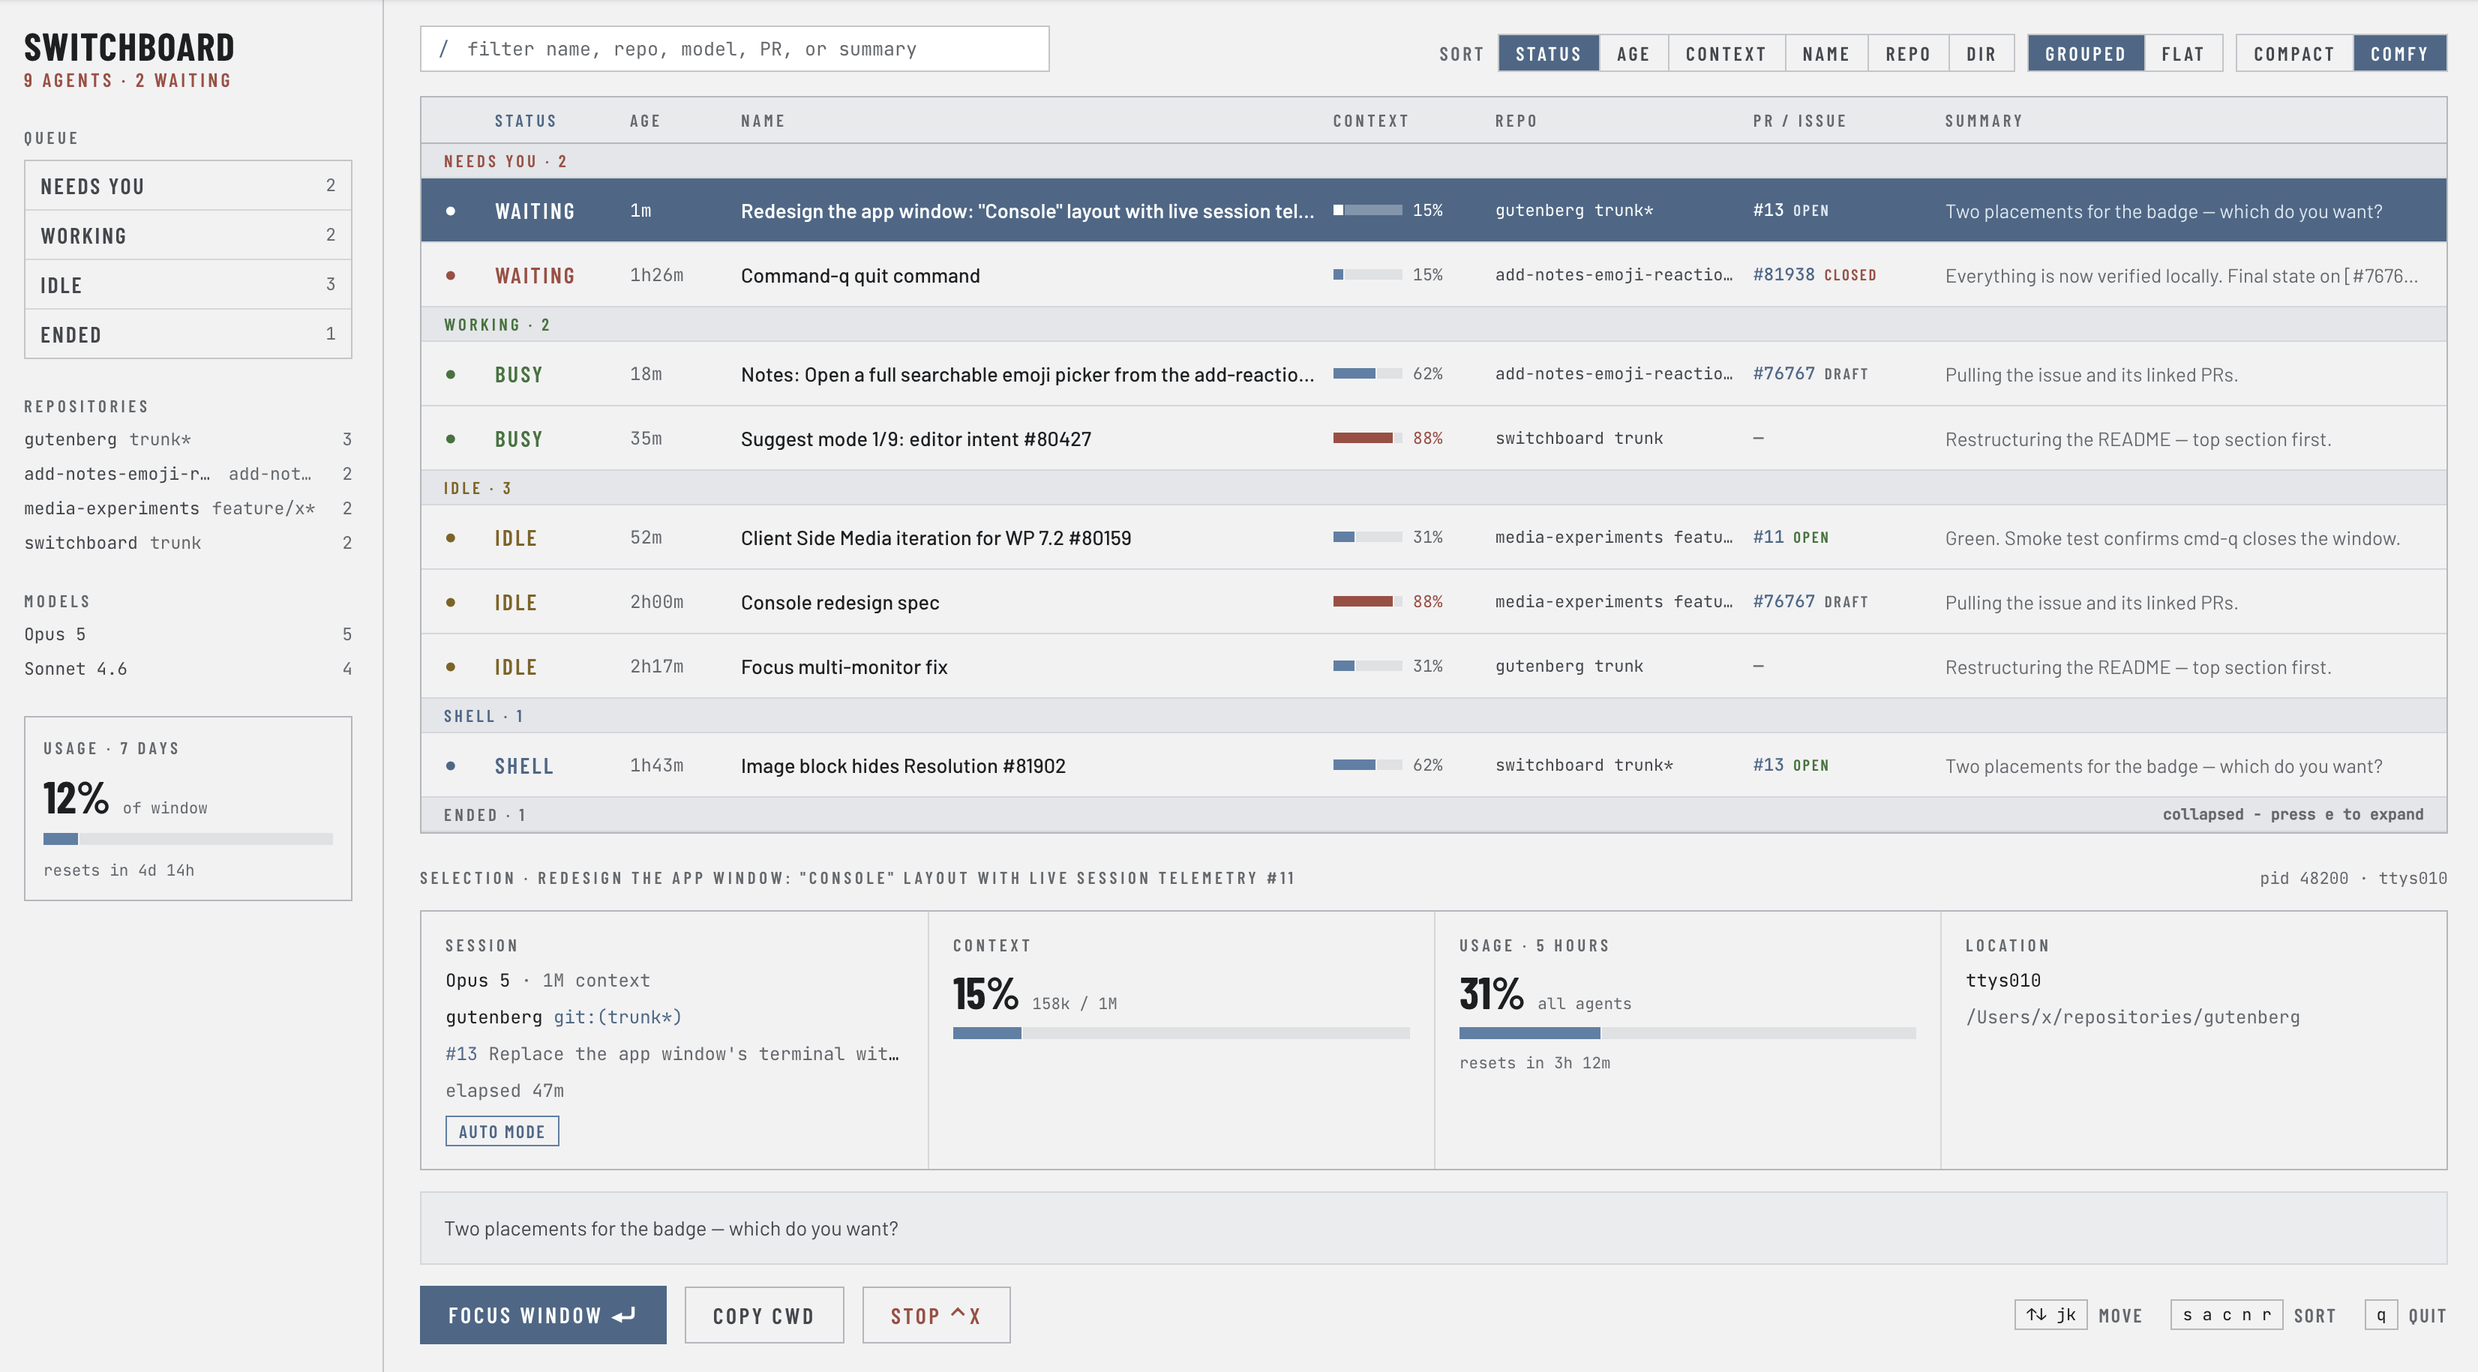
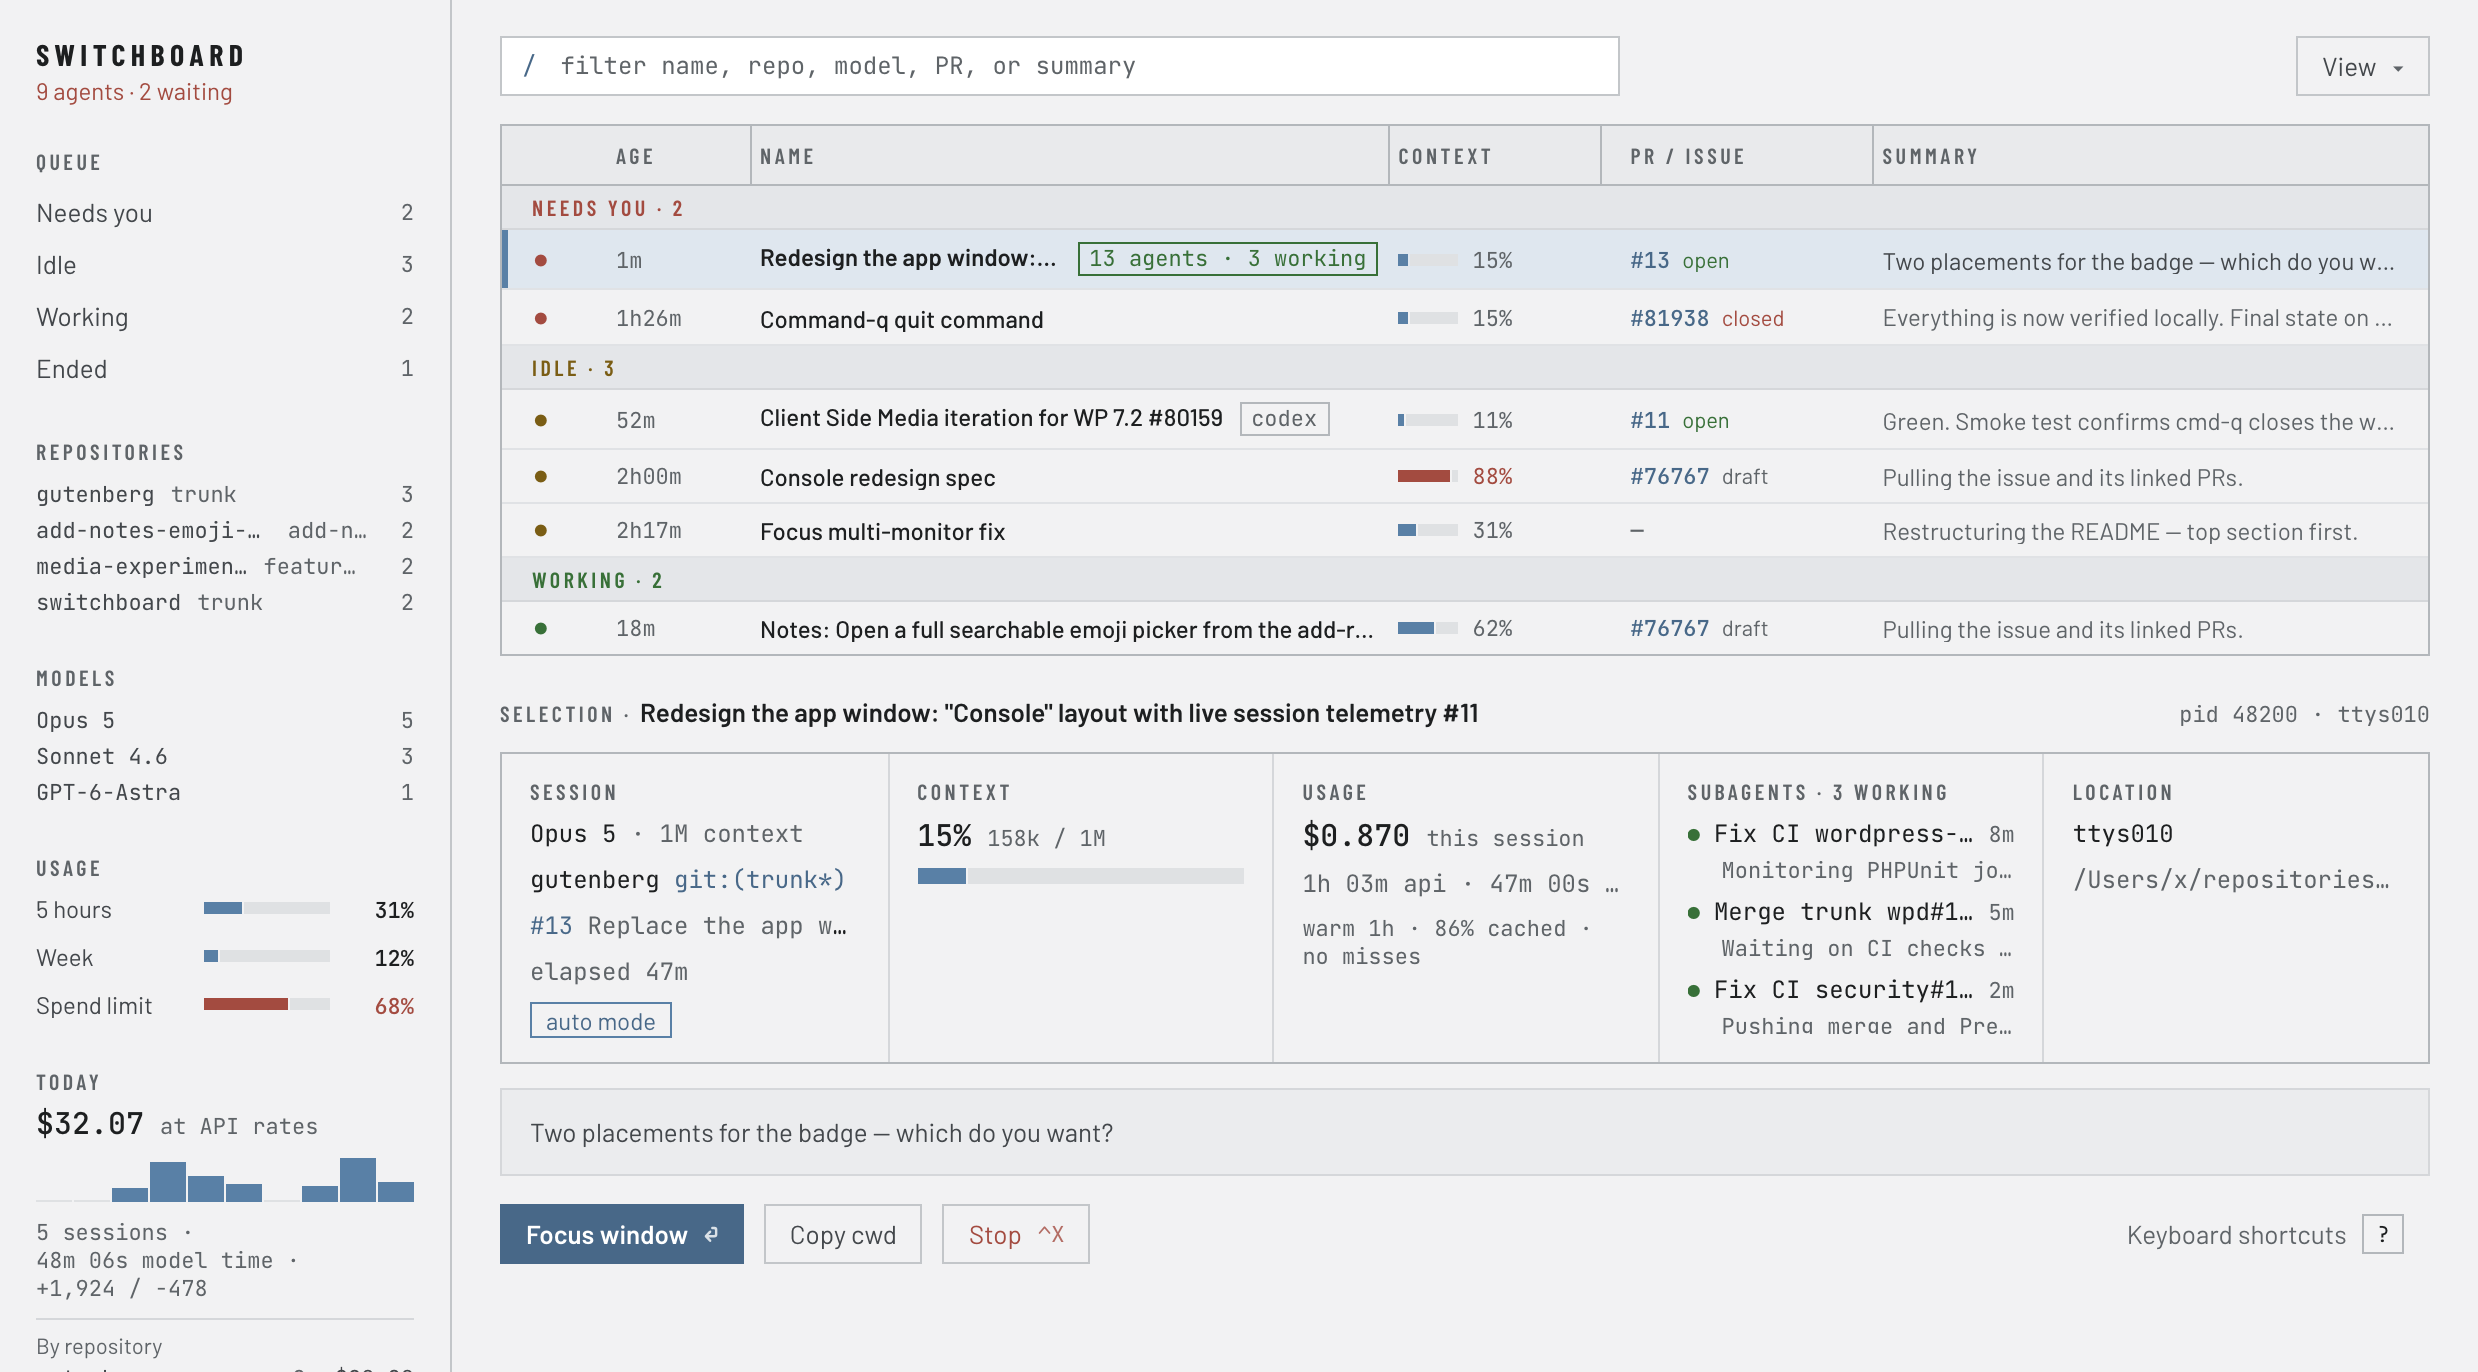
Explain unavailable columns in the menus, and update the README
A column the window has no room for, or that nothing here can fill, now
says why in the menu rather than showing a bare dash. The README and its
screenshot describe the View menu, the context menus, the shortcut sheet
and the dark appearance.

Claude-Session: https://claude.ai/code/session_018vwYjWBVb2PcLVyuU2X87H

diff --git a/internal/appui/assets/console.css b/internal/appui/assets/console.css
@@ -312,12 +312,12 @@ kbd {
 .bar.over i { background: var(--alert); }
 .meter .bar.over + .big b, .meter:has(.bar.over) .big b { color: var(--alert); }
 
-/* The day's spend. Framed like the meters it sits under, since it reads
- * against them, but one panel: the breakdowns are parts of the one total. */
-.ledger { display: flex; flex-direction: column; gap: 10px; padding: 12px; border: 1px solid var(--rule-frame); }
+/* The day's spend. Unframed, like the meters above it: the total leads at
+ * the top of the scale, and the breakdowns are parts of the one total. */
+.ledger { display: flex; flex-direction: column; gap: 8px; }
 .ledger .big { display: flex; flex-wrap: wrap; align-items: baseline; gap: 4px 8px; }
-.ledger .big b { font-family: var(--cond); font-weight: 700; font-size: 30px; line-height: 1; }
-.ledger .big span, .ledger > .note { font-family: var(--mono); font-size: 10.5px; color: var(--muted); }
+.ledger .big b { font-family: var(--mono); font-weight: 500; font-size: var(--fs-4); line-height: 1.2; }
+.ledger .big span, .ledger > .note { font-family: var(--mono); font-size: var(--fs-1); color: var(--muted); }
 .ledger .big span, .ledger > .note span { white-space: nowrap; }
 /* One bar per hour since midnight. Heights are relative to the day's
  * busiest hour; an hour with no spend keeps a hairline so the run of hours
@@ -325,11 +325,11 @@ kbd {
 .spark { display: flex; align-items: flex-end; gap: 1px; height: 22px; }
 .spark i { flex: 1; min-height: 1px; background: var(--accent); }
 .spark i.none { background: var(--track); }
-.shares { display: flex; flex-direction: column; gap: 4px; padding-top: 8px; border-top: 1px solid var(--rule-row); }
-.sublabel { font-family: var(--cond); font-size: 10.5px; font-weight: 600; letter-spacing: 0.16em; text-transform: uppercase; color: var(--muted); }
+.shares { display: flex; flex-direction: column; gap: 3px; padding-top: 6px; border-top: 1px solid var(--rule-row); }
+.sublabel { font-size: var(--fs-1); color: var(--muted); }
 /* Three columns so the costs line up down the list and a long repository
  * name gives way before either number does. */
-.share { display: grid; grid-template-columns: minmax(0, 1fr) auto 7ch; gap: 8px; align-items: baseline; font-family: var(--mono); font-size: 11.5px; color: var(--secondary); }
+.share { display: grid; grid-template-columns: minmax(0, 1fr) auto 7ch; gap: 8px; align-items: baseline; font-family: var(--mono); font-size: var(--fs-1); color: var(--secondary); }
 .share > b { min-width: 0; font-weight: inherit; overflow: hidden; text-overflow: ellipsis; white-space: nowrap; }
 .share > i { font-style: normal; color: var(--muted); text-align: right; }
 .share > span { text-align: right; white-space: nowrap; }

diff --git a/internal/appui/assets/console.js b/internal/appui/assets/console.js
@@ -1216,13 +1216,15 @@ function openRowMenu(at) {
 // A column the window has no room for, or that nothing here can fill, is
 // still listed - hiding it is a choice about the table you get when there
 // is room - but says why it is not on screen.
+//
+// It returns a short hint for the menu and the longer reason for its title.
 function columnUnavailable(col) {
   const s = state.snap;
-  if (col === "context" && !s.anyContext) return "No agent here reports context";
-  if (col === "ref" && !s.anyRef) return "No agent here is on a pull request";
-  if (col === "repo" && innerWidth < 1600) return "Shown under the name at this width";
-  if (col === "summary" && innerWidth <= 1200) return "Shown in the readout at this width";
-  return "";
+  if (col === "context" && !s.anyContext) return ["none here", "No agent here reports context"];
+  if (col === "ref" && !s.anyRef) return ["none here", "No agent here is on a pull request"];
+  if (col === "repo" && innerWidth < 1600) return ["too narrow", "Shown under the name at this width"];
+  if (col === "summary" && innerWidth <= 1200) return ["too narrow", "Shown in the readout at this width"];
+  return ["", ""];
 }
 
 function columnItems() {
@@ -1232,9 +1234,9 @@ function columnItems() {
     fixed("Status"),
     fixed("Name"),
     ...HIDEABLE.map(([col, label]) => {
-      const why = columnUnavailable(col);
+      const [hint, why] = columnUnavailable(col);
       return {
-        label, checked: !hidden[col], title: why, hint: why ? "–" : "",
+        label, checked: !hidden[col], title: why, hint,
         run: () => send({ cmd: "hide", col: col, on: !hidden[col] }),
       };
     }),

diff --git a/README.md b/README.md
@@ -43,7 +43,7 @@ yesterday. Unlike tmux managers, it sees every agent regardless of how it was
 launched - bare iTerm windows, tmux panes, background and SDK sessions - and
 joins each one to the operating-system window it is sitting in.
 
-![The Switchboard app window: nine Claude Code agents grouped into Needs you, Working, Idle and Shell, each row carrying its status, age, name, context-window meter, repository and branch, the pull request it is on, and a one-line summary. A sidebar counts the queues and the repositories; a readout below the list expands the selected agent](assets/screenshot.png)
+![The Switchboard app window: nine Claude Code agents grouped into Needs you, Working, Idle and Shell, each row carrying a status dot, age, name, context-window meter, the pull request it is on, and a one-line summary. A sidebar counts the queues and repositories and shows the usage windows and today's spend; a readout below the list expands the selected agent](assets/screenshot.png)
 
 ## Install
 
@@ -201,7 +201,9 @@ Filtering and sorting happen in the same Go functions the terminal picker
 calls, so the two cannot disagree about what "sorted by status" means.
 
 The list groups by status - **Needs you**, **Working**, **Idle**, **Ended** -
-whenever it is sorted by status, and goes flat under any other sort. "Needs
+whenever it is sorted by status, and goes flat under any other sort. Grouped,
+the band and the dot carry each row's status; flat, the row spells it out.
+"Needs
 you" is derived rather than reported: an idle agent whose last transcript
 entry is its own reply has finished its turn and handed control back. Ended
 agents stay listed, collapsed, and are never dropped.
@@ -228,8 +230,19 @@ the network. A pull request with checks still running is asked about again
 after thirty seconds instead, so a CI run is not two minutes stale.
 
 Density follows the window, not the agent count: the page measures how many
-rows it can show and switches to compact when they stop fitting. Compact and
-Comfy, and Grouped and Flat, are also yours to set, and the choice persists.
+rows it can show and switches to compact when they stop fitting. The **View**
+menu beside the filter sets density, grouping and sort, and shows or hides
+columns; the choices persist. Clicking a header sorts by that column, and the
+arrow marks the one in use.
+
+Right-click a row for its actions - focus its window, open its pull request,
+copy its working directory, filter to its repository, stop it - or press
+`shift+F10` for the same menu on the selected row. Right-click the headers to
+show or hide columns, or to reset their widths. Status and name always show.
+
+The window follows the system's light or dark appearance, and every colour in
+both is held to 4.5:1 for text and 3:1 for graphics by a test that reads the
+stylesheet.
 
 Column widths are yours too. A faint divider sits between the headers; drag
 one to move the boundary between two columns, and double-click it to hand
@@ -243,7 +256,7 @@ Keys: arrows or `j`/`k` move, `enter` focuses, `/` filters across name,
 directory, repository, model, pull request and summary, `s`/`a`/`c`/`n`/`r`/`d` sort by
 status, age, context, name, repo or directory, `e` expands the Ended group,
 `ctrl+x` (then `y`) stops an agent with SIGTERM, `cmd-1` hides the sidebar,
-`q` or `cmd-q` quits. Clicking a row selects it, double-clicking focuses it,
+`q` or `cmd-q` quits, and `?` opens a sheet listing all of them. Clicking a row selects it, double-clicking focuses it,
 and the sidebar's queue, repository and model lists are filters.
 
 The first focus from the app triggers a one-time macOS Automation permission
